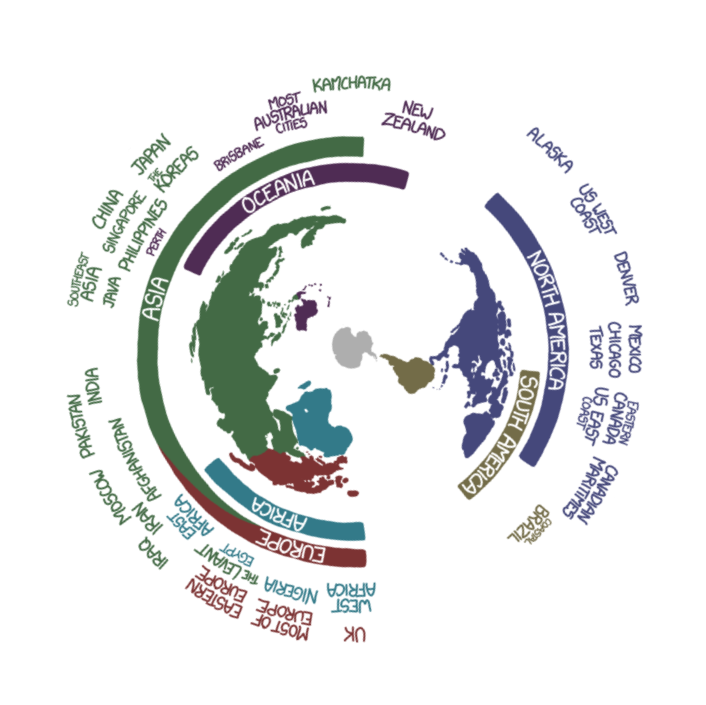
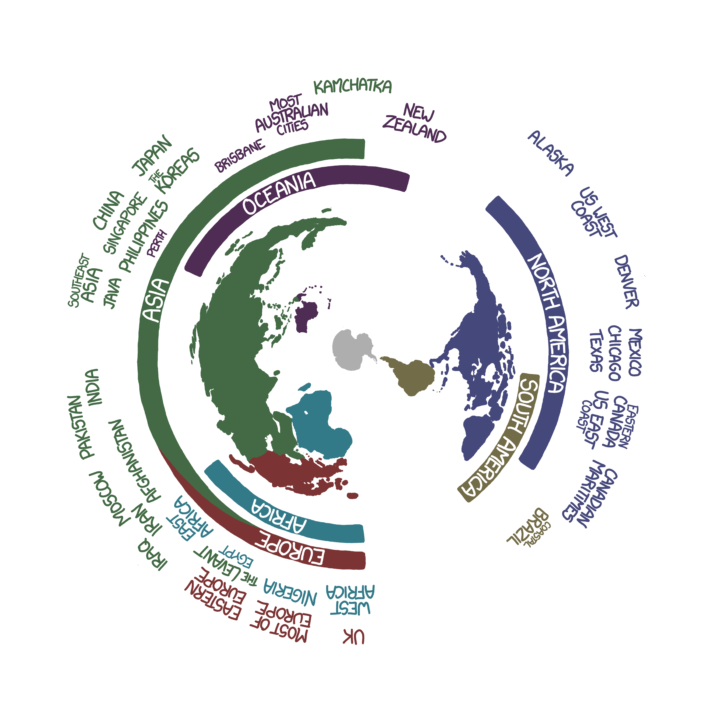
Reworked all the graphics to try to get it to render as sharply as possible

diff --git a/XkcdClock/MainWindow.xaml b/XkcdClock/MainWindow.xaml
@@ -3,7 +3,7 @@
         xmlns:x="http://schemas.microsoft.com/winfx/2006/xaml"
         xmlns:xkcdClock="clr-namespace:XkcdClock"
         Title="xkcd World Clock" 
-        Height="705"  
+        Height="706"  
         Width="706" 
         ResizeMode="NoResize" 
         SizeToContent="WidthAndHeight" 
@@ -12,13 +12,13 @@
         <xkcdClock:ClockRotation />
     </Window.DataContext>
     <Grid>
-        <Image x:Name="Outer" Source="Resources/Outer.png" Height="705" Width="706" />
-        <Image x:Name="Inner" Source="Resources/Inner.png" Height="705" Width="706" RenderTransformOrigin="0.5,0.5" >
+        <Image x:Name="Inner" Source="Resources/Inner.png" Height="706" Width="706" RenderTransformOrigin="0.5,0.5" >
             <Image.RenderTransform>
                 <TransformGroup>
                     <RotateTransform Angle="{Binding Path=InnerRotation}"/>
                 </TransformGroup>
             </Image.RenderTransform>
         </Image>
+        <Image x:Name="Outer" Source="Resources/Outer.png" Height="706" Width="706" />
     </Grid>
 </Window>
